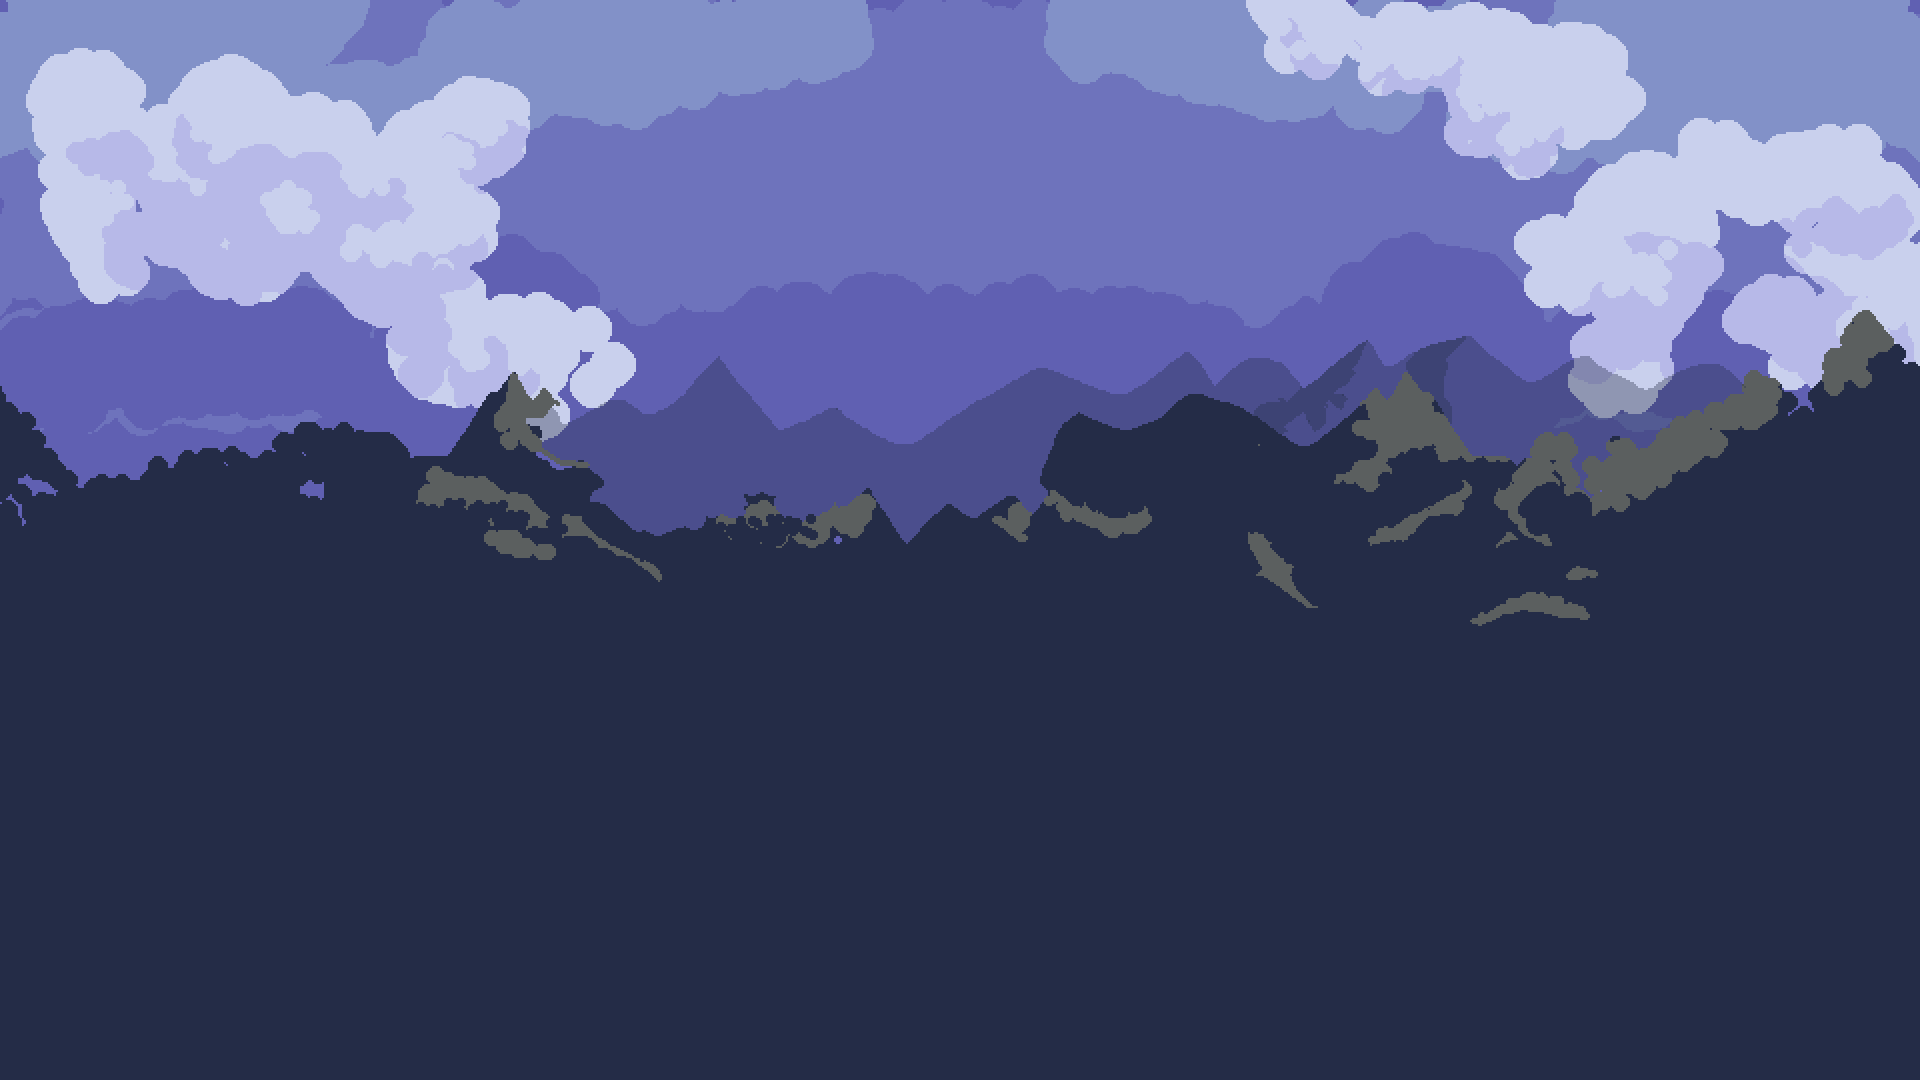
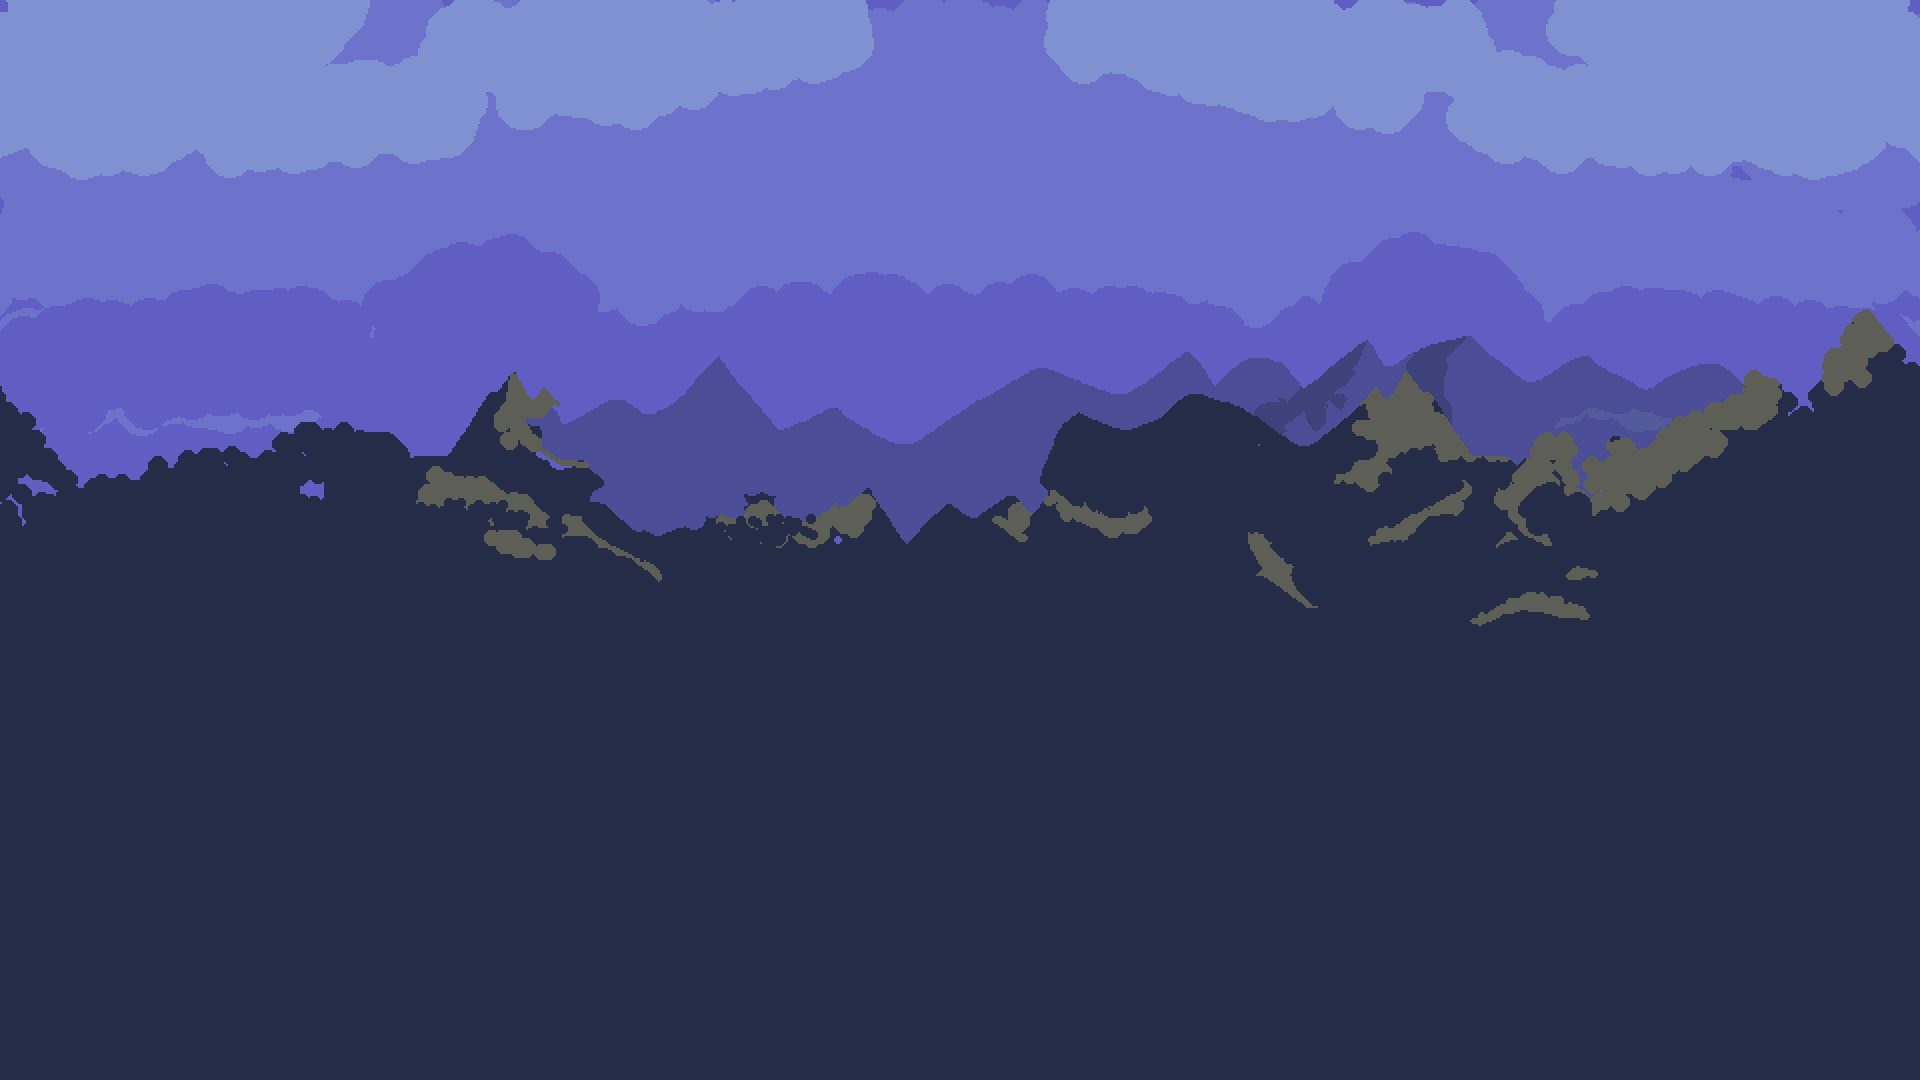
main menu parallax

Changed region(s): [[0.625, 0.0, 1.0, 0.3972], [0.0, 0.0306, 0.3438, 0.3972]]

diff --git a/packages/client/src/pages/client.page.vue b/packages/client/src/pages/client.page.vue
@@ -2,6 +2,11 @@
 import { useAuth } from '@/auth/composables/useAuth';
 import { useMe } from '@/auth/composables/useMe';
 import { GAME_STATUS } from '@game/api';
+import { useMouse, useRafFn, useWindowSize } from '@vueuse/core';
+
+const PARALLAX_MIDDLE_DISTANCE_PX = 30;
+const PARALLAX_FRONT_DISTANCE_PX = 100;
+const PARALLAX_INERTIA = 3;
 
 definePage({
   name: 'Client',
@@ -33,10 +38,48 @@ watch(
   },
   { immediate: true }
 );
+
+const { x: mouseX } = useMouse();
+const { width: viewportWidth } = useWindowSize();
+const parallaxX = ref(0);
+
+const targetParallaxX = computed(() => {
+  if (!viewportWidth.value) return 0;
+
+  return mouseX.value / viewportWidth.value - 0.5;
+});
+
+const route = useRoute();
+
+const parallaxFn = useRafFn(({ delta }) => {
+  const smoothing = 1 - Math.exp((-PARALLAX_INERTIA * delta) / 1000);
+  parallaxX.value += (targetParallaxX.value - parallaxX.value) * smoothing;
+});
+
+watchEffect(() => {
+  if (route.name === 'ClientHome') {
+    parallaxFn.resume();
+  } else {
+    parallaxFn.pause();
+    gsap.to(parallaxX, { value: 0, duration: 0.3 });
+  }
+});
+
+const parallaxStyle = computed(() => ({
+  '--parallax-middle-x': `${-parallaxX.value * PARALLAX_MIDDLE_DISTANCE_PX}px`,
+  '--parallax-front-x': `${-parallaxX.value * PARALLAX_FRONT_DISTANCE_PX}px`
+}));
 </script>
 
 <template>
-  <div class="client-page">
+  <div class="client-page" :style="parallaxStyle">
+    <div class="background-layer background-back" />
+    <div class="background-layer background-clouds" />
+    <div class="background-layer background-middle" />
+    <div class="background-layer background-front" />
+    <div class="background-layer background-fx" />
+    <div class="background-layer background-overlay" />
+
     <router-view v-slot="{ Component, route }">
       <transition :name="route.meta.transition as any" mode="out-in">
         <component :is="Component" />
@@ -47,14 +90,60 @@ watch(
 
 <style scoped lang="postcss">
 .client-page {
-  background:
-    url('@/assets/backgrounds/main-menu-overlay.png'),
-    url('@/assets/backgrounds/main-menu-fx.png'),
-    url('@/assets/backgrounds/main-menu-front.png'),
-    url('@/assets/backgrounds/main-menu-middle.png'),
-    url('@/assets/backgrounds/main-menu-back.png');
-  background-size: cover;
+  position: relative;
+  isolation: isolate;
+  overflow: hidden;
   min-height: 100dvh;
-  background-blend-mode: normal, multiply, normal, normal;
+}
+
+.background-layer {
+  position: absolute;
+  pointer-events: none;
+  background-size: cover;
+  background-repeat: no-repeat;
+}
+
+.background-back {
+  background-image: url('@/assets/backgrounds/main-menu-back.png');
+  inset: 0;
+}
+
+@keyframes clouds-scroll {
+  0% {
+    background-position: 0 0;
+  }
+  100% {
+    background-position: 200% 0;
+  }
+}
+.background-clouds {
+  background-image: url('@/assets/backgrounds/main-menu-clouds.png');
+  background-repeat: repeat-x;
+  animation: clouds-scroll 90s linear infinite;
+  width: 200vw;
+  aspect-ratio: calc(2 * 960) / 540;
+  left: 0;
+  background-size: contain;
+}
+.background-middle {
+  background-image: url('@/assets/backgrounds/main-menu-middle.png');
+  transform: translate3d(var(--parallax-middle-x), 0, 0);
+  inset: 0;
+}
+
+.background-front {
+  background-image: url('@/assets/backgrounds/main-menu-front.png');
+  transform: translate3d(var(--parallax-front-x), 0, 0);
+  inset: 0;
+}
+
+.background-fx {
+  background-image: url('@/assets/backgrounds/main-menu-fx.png');
+  mix-blend-mode: multiply;
+  inset: 0;
+}
+
+.background-overlay {
+  background-image: url('@/assets/backgrounds/main-menu-overlay.png');
 }
 </style>

diff --git a/packages/client/src/pages/client/index.page.vue b/packages/client/src/pages/client/index.page.vue
@@ -5,6 +5,7 @@ import FancyButton from '@/ui/components/FancyButton.vue';
 import UiButton from '@/ui/components/UiButton.vue';
 import { api, GIFT_STATES } from '@game/api';
 import { useMe } from '@/auth/composables/useMe';
+import { useLogout } from '@/auth/composables/useLogout';
 
 definePage({
   name: 'ClientHome',
@@ -24,12 +25,14 @@ const unclaimedGiftsCount = computed(() => {
 const { data: me } = useMe();
 const { data: unopenedPacks, isLoading: isLoadingUnopenedPacks } =
   useAuthedQuery(api.cards.unopenedPacks, {});
+
+const { mutate: logout } = useLogout();
 </script>
 
 <template>
   <div class="client-home-page">
     <!-- <AuthenticatedHeader /> -->
-    <div class="container">
+    <!-- <div class="container">
       <div class="surface gifts-notification" v-if="unclaimedGiftsCount > 0">
         You have some unclaimed gifts waiting for you !
         <UiButton :to="{ name: 'Gifts' }" class="primary-button">
@@ -49,7 +52,46 @@ const { data: unopenedPacks, isLoading: isLoadingUnopenedPacks } =
       </template>
 
       <FancyButton text="Learn how to Play" :to="{ name: 'TutorialHome' }" />
-    </div>
+    </div> -->
+
+    <ul class="menu">
+      <li>
+        <RouterLink
+          :to="{ name: 'SelectMode' }"
+          class="dual-text"
+          data-text="Play"
+        >
+          <span>Play</span>
+        </RouterLink>
+      </li>
+      <li>
+        <RouterLink
+          :to="{ name: 'Collection' }"
+          class="dual-text"
+          data-text="Collection"
+        >
+          Collection
+        </RouterLink>
+      </li>
+      <li class="hot">
+        <RouterLink :to="{ name: 'Shop' }" class="dual-text" data-text="Shop">
+          Shop
+        </RouterLink>
+      </li>
+      <li>
+        <RouterLink :to="{ name: 'Gifts' }" class="dual-text" data-text="Gifts">
+          Gifts
+          <span v-if="unclaimedGiftsCount > 0" class="gift-chip">
+            {{ unclaimedGiftsCount }}
+          </span>
+        </RouterLink>
+      </li>
+      <li>
+        <button @click="logout({})" class="dual-text" data-text="Logout">
+          Logout
+        </button>
+      </li>
+    </ul>
   </div>
 </template>
 
@@ -67,5 +109,47 @@ const { data: unopenedPacks, isLoading: isLoadingUnopenedPacks } =
 .client-home-page {
   transform-style: preserve-3d;
   perspective: 1300px;
+  height: 100dvh;
+  z-index: 0;
+}
+
+.menu {
+  --dual-text-stroke-offset-y: -2px;
+  position: absolute;
+  top: 20%;
+  left: var(--size-13);
+  font-size: var(--font-size-6);
+  font-weight: 700;
+  color: transparent;
+
+  :is(a, button):hover {
+    filter: brightness(1.3);
+  }
+
+  li {
+    width: fit-content;
+    transition: all 0.3s ease;
+    transition-delay: calc(0.05s * var(--child-index));
+    @starting-style {
+      opacity: 0;
+      transform: translateY(-20px);
+    }
+  }
+  li.hot {
+    position: relative;
+    &::after {
+      content: 'HOT!';
+      position: absolute;
+      top: var(--size-2);
+      right: -25px;
+      transform: translate(50%, -50%);
+      background-color: var(--red-8);
+      color: white;
+      font-size: 1rem;
+      font-weight: var(--font-weight-7);
+      padding: 0.1rem 0.4rem;
+      border-radius: var(--radius-2);
+    }
+  }
 }
 </style>
